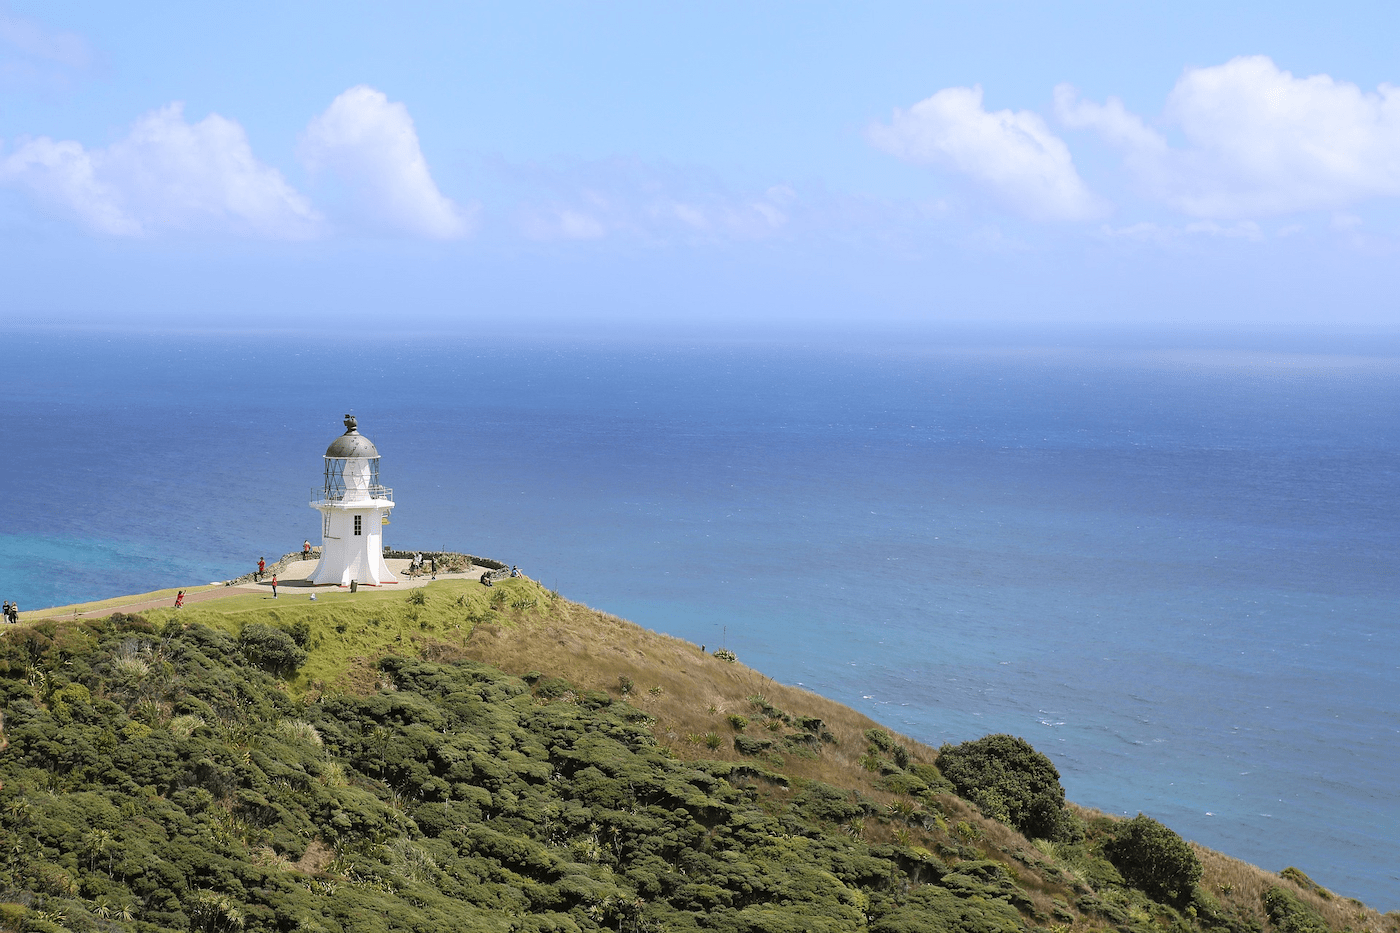
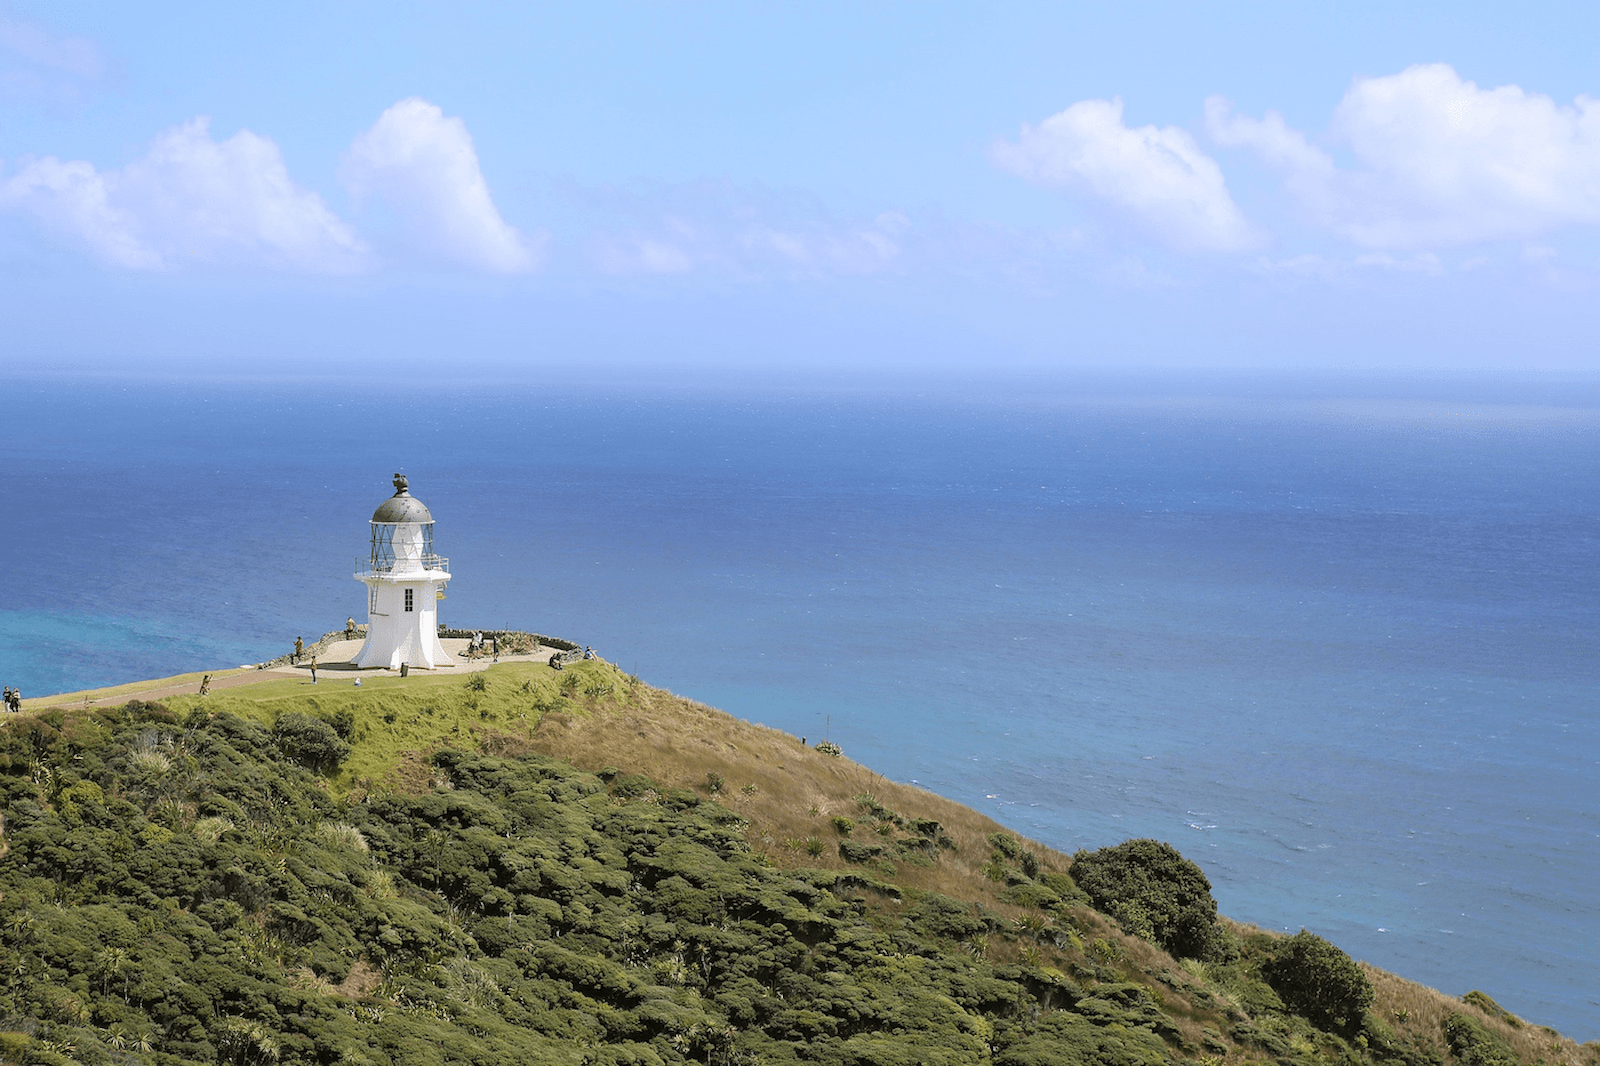
7/21

Changed region(s): [[0.215, 0.9325, 0.2764, 0.9636], [0.2764, 0.5906, 0.3071, 0.6217]]

diff --git a/www/sub4/css/sub4_content1.css b/www/sub4/css/sub4_content1.css
@@ -14,26 +14,22 @@
 
 /* 전체 영역 */
 #content .content_area {
-  width: 1400px;
+  width: 1600px;
   min-height: 800px;
   margin: 150px auto 0;
   padding-bottom: 150px;
 }
 
 #content .start_guide_introduction {
-  width: 1400px;
+  width: 1600px;
   height: 800px;
   display: flex;
-  flex-direction: column;
   gap: 10px;
   border-radius: 40px;
   margin: 50px auto;
-  position: relative;
+  color: var(--font-color-sub2);
   box-shadow: 5px 5px 15px rgba(0, 0, 0, 0.3);
-  background-size: cover;
-  background-position: center;
   transition: all 0.6s ease-in-out;
-  color: white;
 }
 
 #content .start_guide_introduction.bg_1 {
@@ -106,7 +102,7 @@
 /* 롯데시너지 , 경영주혜택 */
 
 #content .lotte_infrastructure li p,
-#content .happiness_package ul p {
+#content .happiness_package li p {
   margin-bottom: 15px;
 }
 
@@ -121,7 +117,6 @@
 
 #content .lotte_infrastructure dl dt,
 #content .happiness_package dl dt {
-  margin-left: 60px;
   font-size: var(--font-size-no12); /*18px*/
   color: var(--font-color-point1);
   font-weight: 500;
@@ -129,12 +124,9 @@
 
 #content .lotte_infrastructure dl dd,
 #content .happiness_package dl dd {
-  margin-left: 90px;
   padding-bottom: 10px;
-
   font-size: var(--font-size-no13);
   margin-top: 10px;
-  text-align: justify;
   line-height: 1.6rem;
 }
 
